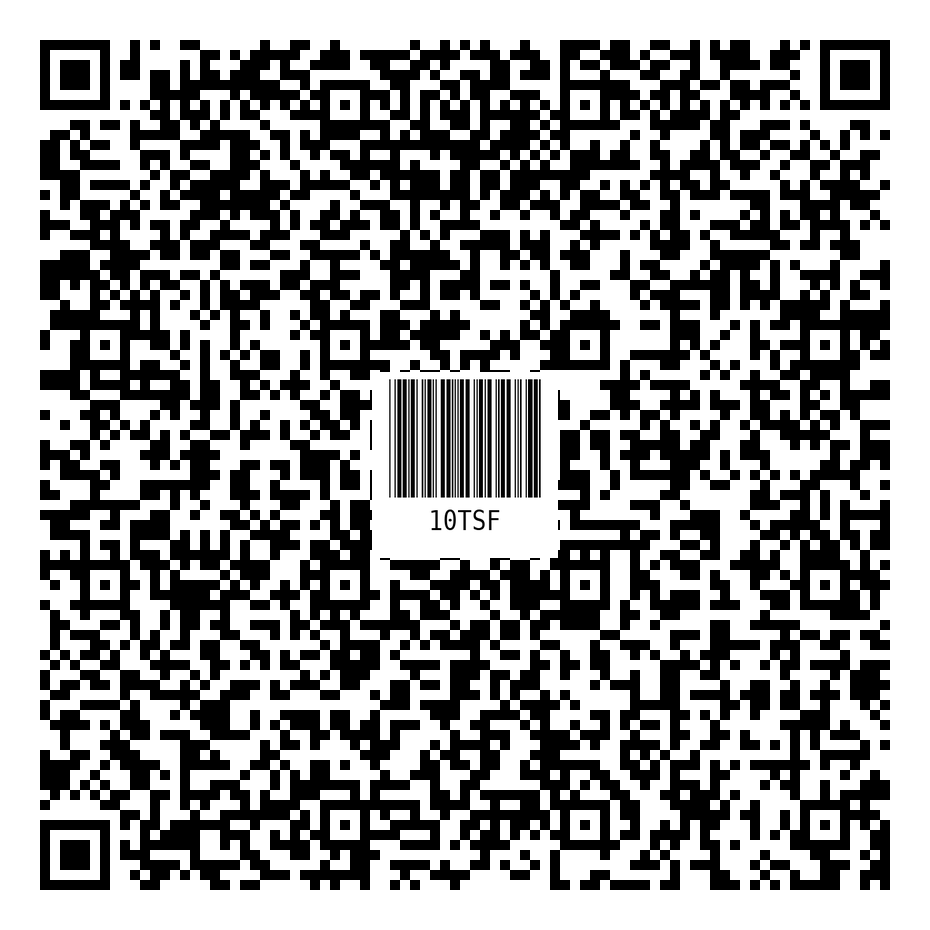
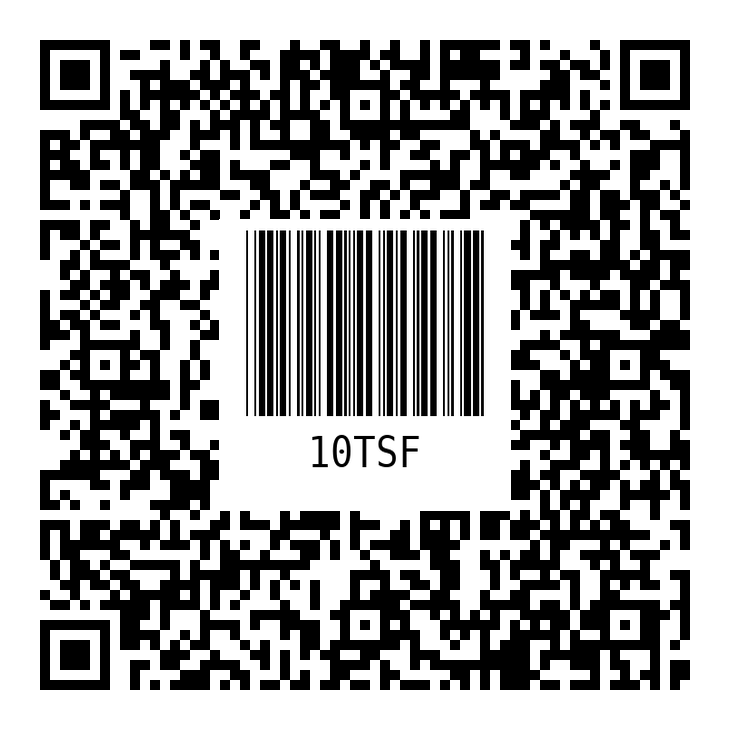
Commit 1.1

diff --git a/qr-pruebas.py b/qr-pruebas.py
@@ -3,8 +3,9 @@ from PIL import Image
 import os
 
 # Directorios
-qr_output_dir = "C:/Users/santi/Documents/Inventario/QRs"  # Donde se guardarán los QR
-logo_dir = "C:/Users/santi/Documents/Inventario/Barras"    # Donde están los logos
+qr_output_dir = r"C:\Users\santi\OneDrive\Documentos\GitHub\Qr-and-BarCode-creator\Inventario\QRs"
+logo_dir = r"C:\Users\santi\OneDrive\Documentos\GitHub\Qr-and-BarCode-creator\Inventario\Barras"
+
 
 # Asegúrate de que el directorio de salida exista
 os.makedirs(qr_output_dir, exist_ok=True)
@@ -39,7 +40,7 @@ def generate_qr_with_logo(link, document_name):
     logo = Image.open(logo_path).convert("RGBA")
 
     # Calcular el tamaño del logo (20% del tamaño del QR)
-    logo_size = int(min(img.size) * 0.2)
+    logo_size = int(min(img.size) * 0.4)
     logo = logo.resize((logo_size, logo_size), Image.LANCZOS)
 
     # Calcular la posición del logo en el centro del QR
@@ -56,8 +57,11 @@ def generate_qr_with_logo(link, document_name):
     print(f"QR guardado en: {save_path}")
 
 # Ejemplo de uso
-document_names = ["10TS", "6THSS"]  # Lista de nombres de documentos
+document_names = ["10TS"]  # Lista de nombres de documentos
 
 for doc_name in document_names:
-    link = f"https://livejaverianaedu-my.sharepoint.com/my?id=%2Fpersonal%2Fcastrozsantiago%5Fjaveriana%5Fedu%5Fco%2FDocuments%2FPiezas%20Inventario%20PujVex%2F{doc_name}%2Epng&parent=%2Fpersonal%2Fcastrozsantiago%5Fjaveriana%5Fedu%5Fco%2FDocuments%2FPiezas%20Inventario%20PujVex&ga=1"  # Cambia a tus enlaces
+    link = f"https://livejaverianaedu-my.sharepoint.com/:b:/g/personal/castrozsantiago_javeriana_edu_co/EaJ2Y9WM9i1Fhznz1xHS3IkBQopHJPDUoWEdEICtKUNdrg?e=n87TaE"  # Cambia a tus enlaces
     generate_qr_with_logo(link, doc_name)
+
+#https://livejaverianaedu-my.sharepoint.com/:b:/g/personal/castrozsantiago_javeriana_edu_co/EaJ2Y9WM9i1Fhznz1xHS3IkBQopHJPDUoWEdEICtKUNdrg?e=n87TaE
+#https://livejaverianaedu-my.sharepoint.com/my?id=%2Fpersonal%2Fcastrozsantiago%5Fjaveriana%5Fedu%5Fco%2FDocuments%2FPiezas%20Inventario%20PujVex%2F{doc_name}%2Epng&parent=%2Fpersonal%2Fcastrozsantiago%5Fjaveriana%5Fedu%5Fco%2FDocuments%2FPiezas%20Inventario%20PujVex&ga=1

diff --git a/BarCode.py b/BarCode.py
@@ -4,7 +4,7 @@ from barcode.writer import ImageWriter
 import os
 
 # Ruta del archivo de Excel
-excel_file_path = r"C:\Users\santi\Documents\Inventario\Inventario PujVex.xlsx"
+excel_file_path = r"C:\Users\santi\OneDrive\Documentos\GitHub\Qr-and-BarCode-creator\Inventario\Inventario PujVex.xlsx"
 
 # Cargar el archivo de Excel
 excel_data = pd.ExcelFile(excel_file_path)
@@ -13,7 +13,7 @@ excel_data = pd.ExcelFile(excel_file_path)
 inventory_data = excel_data.parse('Inventario')
 
 # Definir la ruta para guardar las imágenes
-save_path = r"C:\Users\santi\Documents\Inventario\Barras"
+save_path = r"C:\Users\santi\OneDrive\Documentos\GitHub\Qr-and-BarCode-creator\Inventario\Barras"
 
 # Asegurarse de que la carpeta de destino existe
 os.makedirs(save_path, exist_ok=True)
